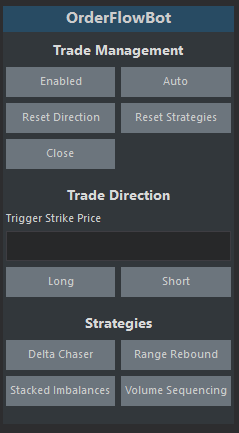
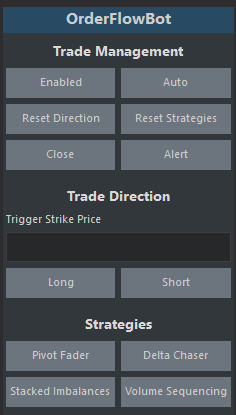
Updated README.md

diff --git a/README.md b/README.md
@@ -54,6 +54,10 @@ Resets the Strategies section.
 
 Closes any ATM positions created by OrderFlowBot and resets the Trade Direction section.
 
+#### Alert
+
+This alerts you of the trade by playing a sound and painting triangles instead of executing the trade. Using this will alert you to further analyze the valid trade entry from your strategy and manually enter.
+
 ## Trade Direction
 
 This section contains the inputs for triggering a trade direction.
